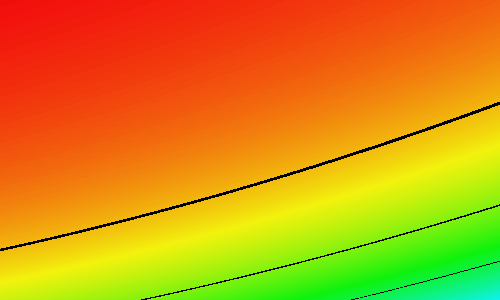
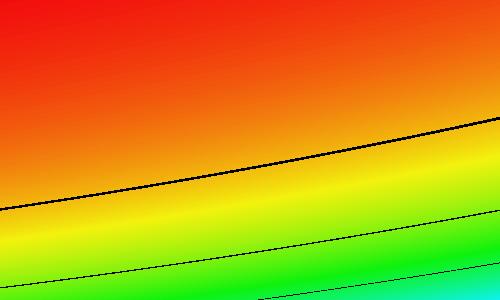
example wrapper now allows choosing any two variables of EBO algorithm

diff --git a/example/example.rb b/example/example.rb
@@ -9,8 +9,8 @@ require 'rubygems'
 # The code is adapted from https://github.com/sotoseattle/EBOlve
 #
 # We want to see how the iintrinsic value varies when:
-#  - long_term_growth ranges from 5% to 35% => x (top to botom)
-#  - discount_rate ranges from 8% to 18%    => y (left to right)
+#  - long_term_growth ranges from 5% to 35% => x
+#  - discount_rate ranges from 8% to 18%    => y
 
 class Ebolve
   attr_accessor :ltg, :r
@@ -23,9 +23,8 @@ class Ebolve
     @retain = 1.0 - input[:pYOUT]           # % dividend payout, format 0.16
     @years = input[:years]                  # total years horizon, i.e. 12
     @growth_years = input[:growth_years]    # years of LTG, i.e. 5
-
-    @ltg = nil                              # contant rate of eps growth, format 0.25
-    @r = nil                                # discount rate, format 0.08
+    @ltg = input[:ltg]                      # contant rate of eps growth, format 0.25
+    @r = input[:r]                          # discount rate, format 0.08
     self
   end
 
@@ -66,26 +65,29 @@ end
 # on 2 params: long_term_growth and discount_rate
 class EBO_Wrap
 
-  def initialize(inputs)
+  def initialize(x_var, y_var, inputs)
     @ebo = Ebolve.new(inputs)
+    @x, @y = x_var, y_var
   end
 
-  def alghorithm(x_var, y_var)
-    @ebo.ltg = x_var
-    @ebo.r = y_var
+  def alghorithm(x_value, y_value)
+    @ebo.instance_variable_set("@#{@x}", x_value)
+    @ebo.instance_variable_set("@#{@y}", y_value)
     @ebo.compute_ebo
   end
 end
 
 
 # Initialize wrapper and definition of lambda with method
-w = EBO_Wrap.new :eps1=>1.24, :eps2=>1.54, :book_s=>5.11, :FROE=>0.2,\
-                 :pYOUT=>0.16, :years=>12, :growth_years=>5
+initial_inputs = {:eps1=>1.24, :eps2=>1.54, :ltg=>0.241, :book_s=>5.11, :FROE=>0.2,\
+                  :r=>0.0960, :pYOUT=>0.16, :years=>12, :growth_years=>5}
+
+w = EBO_Wrap.new(:ltg, :r, initial_inputs)
 block = w.method(:alghorithm)
 
 # Initialize the image with inputs, generate and save heat map
 h = HeatMap.new :width => 300, :height => 500, :contours => 3,
-                :x_range => (0.05..0.35), :y_range => (0.08..0.18), &block
+                :x_range => (0.00..0.20), :y_range => (0.08..0.18), &block
 
 h.generate_image
 h.save_img('ebo_output.png')
